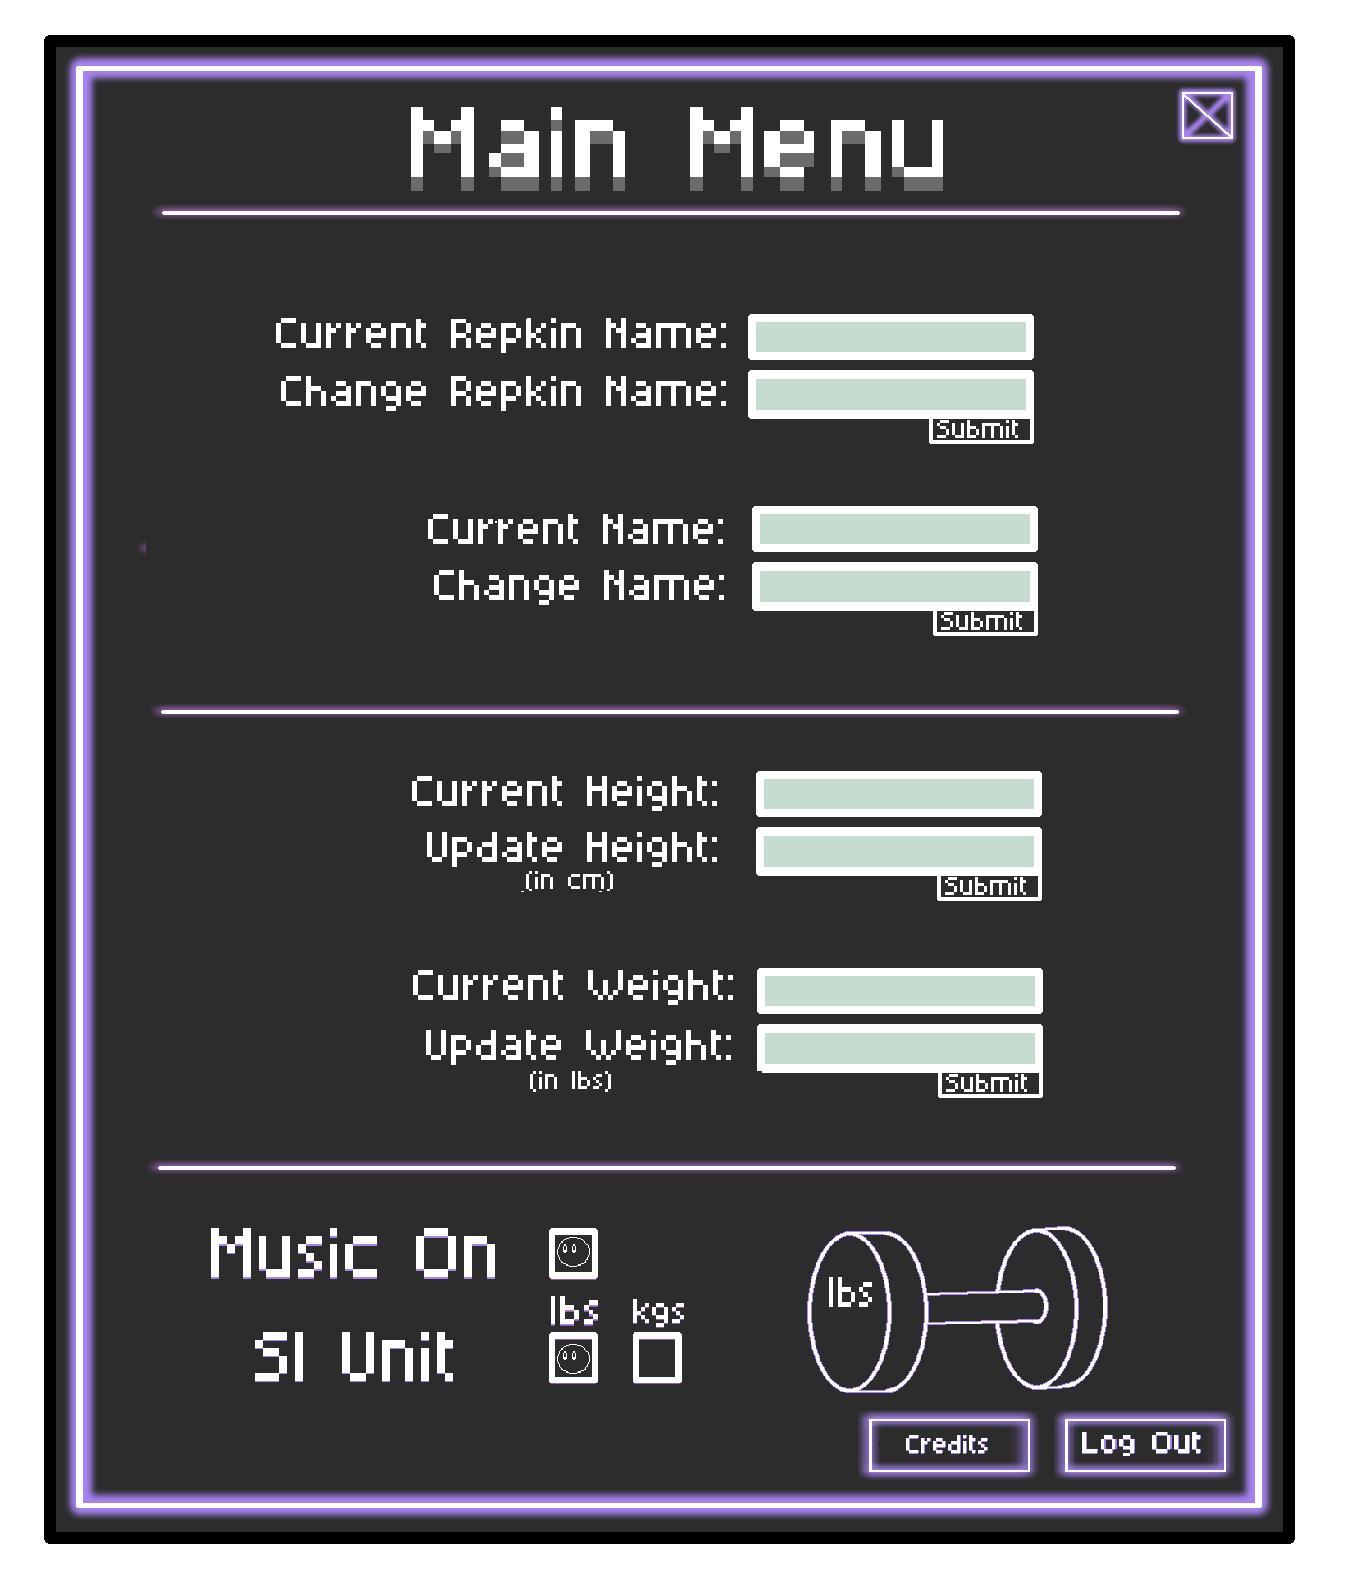
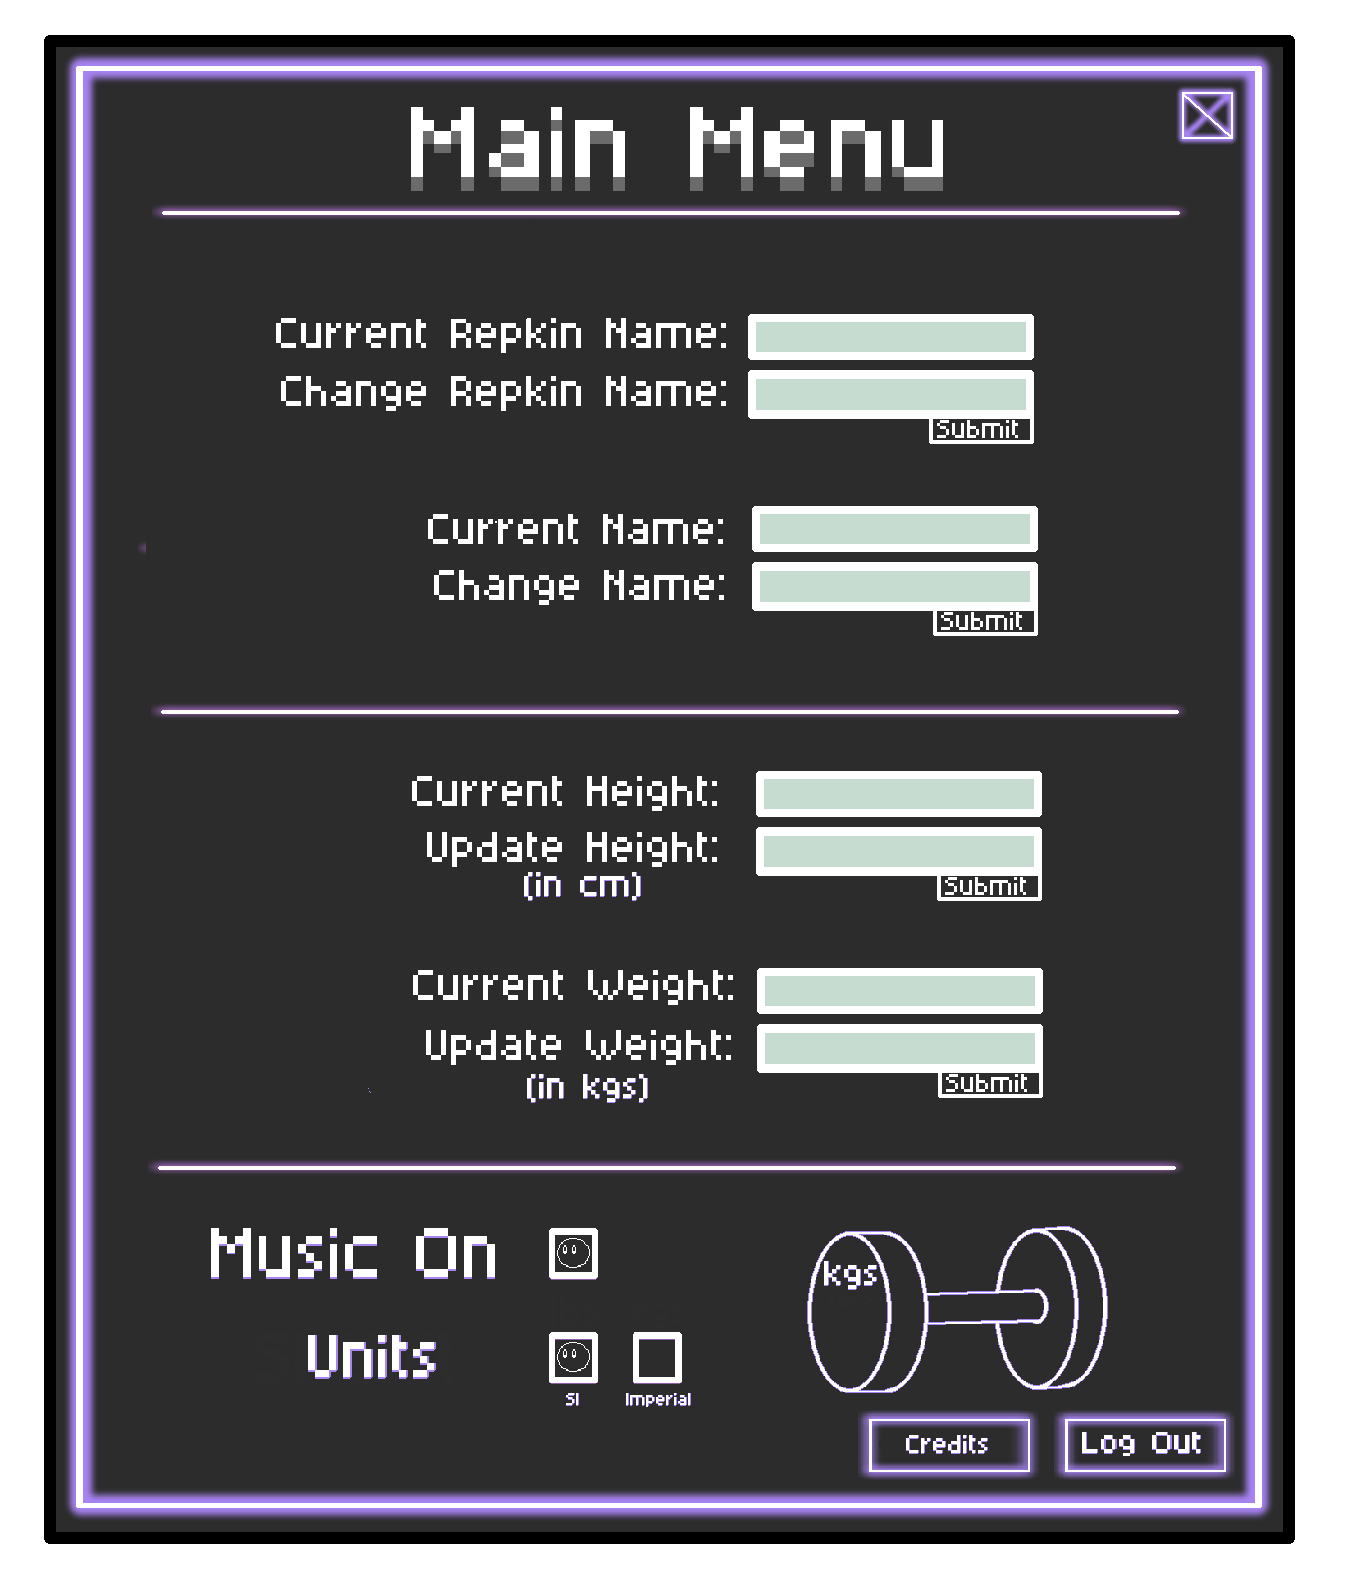
Repkin and Username features. New images for measurement options and reconfiguration.Fixed Repkin sizing in locker_room

diff --git a/project/core/templates/core/home.html b/project/core/templates/core/home.html
@@ -54,31 +54,34 @@
         <img id="menuArt"
             src="{% static 'img/main_menu_pngs/main_menu_starter.png' %}"
             alt="Main Menu" class="main_menu_png"
-            data-lbs-on="{% static 'img/main_menu_pngs/main_menu_starter.png' %}"
-            data-lbs-off="{% static 'img/main_menu_pngs/main_menu_lbs_off.png' %}"
-            data-kgs-on="{% static 'img/main_menu_pngs/main_menu_kgs_on.png' %}"
-            data-kgs-off="{% static 'img/main_menu_pngs/main_menu_kgs_off.png' %}">
+            data-si-on="{% static 'img/main_menu_pngs/main_menu_starter.png' %}"
+            data-si-off="{% static 'img/main_menu_pngs/main_menu_si_off.png' %}"
+            data-imp-on="{% static 'img/main_menu_pngs/main_menu_imp_on.png' %}"
+            data-imp-off="{% static 'img/main_menu_pngs/main_menu_imp_off.png' %}">
 
         <button type="button" id="menuExitButton" class="menu_field" aria-label="Close menu"
                 style="--l:85%; --t:5.2%; --w:5.2%; --h:4.6%"></button>
 
-        <!-- Name -->
-        <input class="menu_field" readonly value="{{ user.first_name }}" aria-label="Current Repkin name"
-            style="--l:55.5%; --t:19.7%; --w:20%; --h:2.7%">
-        <form class="menu_form">
-            <input class="menu_field" name="name" aria-label="Change Repkin name"
-                style="--l:55.5%; --t:23.3%; --w:20%; --h:2.7%">
+        <!-- Repkin Name -->
+        <input class="menu_field" id="cur-repkin-name" readonly value="{{ repkin.name }}"
+            aria-label="Current Repkin name" style="--l:55.5%; --t:19.7%; --w:20%; --h:2.7%">
+        <form class="menu_form" method="post" action="{% url 'core:update_repkin_name' %}"
+            data-display="cur-repkin-name" data-key="name">
+            {% csrf_token %}
+            <input class="menu_field" name="name" maxlength="30" autocomplete="off"
+                aria-label="Change Repkin name" style="--l:55.5%; --t:23.3%; --w:20%; --h:2.7%">
             <button type="submit" class="menu_field" aria-label="Submit Repkin name"
                     style="--l:68%; --t:26%; --w:8%; --h:1.8%"></button>
         </form>
 
         <!-- Username -->
-        <input class="menu_field" readonly value="{{ user.username }}" aria-label="Current  username"
+        <input class="menu_field" id="cur-user-name" readonly value="{{ user.first_name }}" aria-label="Current name"
             style="--l:55.5%; --t:32%; --w:20%; --h:2.7%">
-        <form class="menu_form">
-            <input class="menu_field" name="username" aria-label="Change username"
+        <form class="menu_form" method="post" action="{% url 'core:update_user_name' %}" data-display="cur-user-name" data-key="name">
+            {% csrf_token %}
+            <input class="menu_field" name="name" maxlenth="30" autocomplete= "off" aria-label="Change name"
                 style="--l:55.5%; --t:35.5%; --w:20%; --h:2.7%">
-            <button type="submit" class="menu_field" aria-label="Submit username"
+            <button type="submit" class="menu_field" aria-label="Submit name"
                     style="--l:68%; --t:38.5%; --w:8%; --h:1.8%"></button>
         </form>
 
@@ -124,9 +127,9 @@
         <!-- Music Control -->
         <button type="button" id="musicBtn" class="menu_field" aria-label="Music" aria-pressed="true"
             style="--l:40.8%; --t:77.7%; --w:3.8%; --h:3.2%"></button>
-        <button type="button" id="lbsBtn" class="menu_field" aria-label="Pounds" aria-pressed="true"
+        <button type="button" id="siBtn" class="menu_field" aria-label="Imperial" aria-pressed="true"
                 style="--l:40.8%; --t:84.2%; --w:3.8%; --h:3.3%"></button>
-        <button type="button" id="kgsBtn" class="menu_field" aria-label="Kilograms" aria-pressed="false"
+        <button type="button" id="impBtn" class="menu_field" aria-label="SI" aria-pressed="false"
                 style="--l:46.9%; --t:84.2%; --w:3.8%; --h:3.3%"></button>
     
 

diff --git a/project/static/js/main_menu.js b/project/static/js/main_menu.js
@@ -30,32 +30,31 @@
     document.getElementById("creditsButton").addEventListener("click", () => creditsOverlay.classList.remove("hidden"));
     creditsOverlay.addEventListener("click", (e) => { e.stopPropagation(); creditsOverlay.classList.add("hidden"); });
 
-    // settings forms aren't wired to the server yet
-    document.querySelectorAll(".menu_form").forEach((f) => f.addEventListener("submit", (e) => e.preventDefault()));
-
     // music and units, remembered across pages
     const art = document.getElementById("menuArt");
     const music = document.getElementById("bg-music");
     const musicBtn = document.getElementById("musicBtn");
-    const lbsBtn = document.getElementById("lbsBtn");
-    const kgsBtn = document.getElementById("kgsBtn");
+    const impBtn = document.getElementById("impBtn");
+    const siBtn = document.getElementById("siBtn");
     const load = (k, d) => { try { return localStorage.getItem(k) ?? d; } catch (e) { return d; } };
     const save = (k, v) => { try { localStorage.setItem(k, v); } catch (e) {} };
 
     let musicOn = load("repkinz.music", "on") === "on";
-    let unit = load("repkinz.unit", "lbs");
+    let unit = load("repkinz.unit", "imp");
+    if (unit === "lbs") unit = "imp";   // values saved by the old version
+    if (unit === "kgs") unit = "si";
 
     function render() {
         art.src = art.dataset[unit + (musicOn ? "On" : "Off")];
         musicBtn.setAttribute("aria-pressed", String(musicOn));
-        lbsBtn.setAttribute("aria-pressed", String(unit === "lbs"));
-        kgsBtn.setAttribute("aria-pressed", String(unit === "kgs"));
+        impBtn.setAttribute("aria-pressed", String(unit === "imp"));
+        siBtn.setAttribute("aria-pressed", String(unit === "si"));
         if (music) { musicOn ? music.play().catch(() => {}) : music.pause(); }
     }
 
     musicBtn.addEventListener("click", () => { musicOn = !musicOn; save("repkinz.music", musicOn ? "on" : "off"); render(); });
-    lbsBtn.addEventListener("click", () => { unit = "lbs"; save("repkinz.unit", unit); render(); });
-    kgsBtn.addEventListener("click", () => { unit = "kgs"; save("repkinz.unit", unit); render(); });
+    impBtn.addEventListener("click", () => { unit = "imp"; save("repkinz.unit", unit); render(); });
+    siBtn.addEventListener("click", () => { unit = "si"; save("repkinz.unit", unit); render(); });
 
     // browsers block autoplay with sound, so start on the first click if music is on
     document.addEventListener("pointerdown", () => {
@@ -63,4 +62,31 @@
     }, { once: true });
 
     render();
+
+    //Forms that save information through the server and update the display boxes
+    document.querySelectorAll(".menu_form[data-key]").forEach((form) => {
+    form.addEventListener("submit", async (e) => {
+        e.preventDefault();                       // stop the page reload
+        const box = document.getElementById(form.dataset.display);
+        const old = box.value;
+        try {
+            const res = await fetch(form.action, {
+                method: "POST",
+                body: new FormData(form),         // includes the csrf token
+                credentials: "same-origin",
+            });
+            const data = await res.json();
+            if (res.ok) {
+                box.value = data[form.dataset.key];   // show the saved value
+                form.reset();                         // clear the typing box
+            } else {
+                box.value = data.error || "Could not save.";
+                setTimeout(() => { box.value = old; }, 2000);
+            }
+        } catch (err) {
+            box.value = "Network error.";
+            setTimeout(() => { box.value = old; }, 2000);
+        }
+        });
+    });
 })();

diff --git a/project/static/css/locker_room.css b/project/static/css/locker_room.css
@@ -2,8 +2,8 @@
 .user-base-gif {
     position: absolute;
     left: 42%;
-    top: 84%;
-    width: 20%;
+    top: 80%;
+    width: 50%;
     transform: translate(-50%, -50%);
     image-rendering: pixelated;
 }

diff --git a/project/core/tests.py b/project/core/tests.py
@@ -3,6 +3,7 @@ from django.contrib.auth.models import User
 from django.urls import reverse
 from core.models_repkin import Repkin
 from .models import StarterItem
+from unittest.mock import patch
 
 PASSWORD = "pw12345!"
 
@@ -178,14 +179,6 @@ def test_menu_has_panel_and_fields(menu_html):
 
 
 @pytest.mark.django_db
-def test_menu_shows_current_username(menu_html, user):
-    assert f'value="{user.username}"' in menu_html
-    assert "readonly" in menu_html
-
-#Removed becausre password fields no longer in menu
-
-
-@pytest.mark.django_db
 def test_menu_logout_form_posts_to_logout(menu_html):
     assert f'action="{reverse("core:logout")}"' in menu_html
     assert "csrfmiddlewaretoken" in menu_html
@@ -194,7 +187,7 @@ def test_menu_logout_form_posts_to_logout(menu_html):
 @pytest.mark.django_db
 def test_hud_shows_signed_in_username(home_html, user):
     assert "Signed in as" in home_html
-    assert user.username in home_html
+    assert user.first_name in home_html
 
 
 @pytest.mark.django_db
@@ -211,9 +204,9 @@ def test_menu_has_credits_button_and_overlay(home_html):
 
 @pytest.mark.django_db
 def test_menu_art_has_all_four_states(home_html):
-    for attr in ("data-lbs-on", "data-lbs-off", "data-kgs-on", "data-kgs-off"):
+    for attr in ("data-imp-on", "data-imp-off", "data-si-on", "data-si-off"):
         assert attr in home_html
-    for el_id in ("musicBtn", "lbsBtn", "kgsBtn"):
+    for el_id in ("musicBtn", "impBtn", "siBtn"):
         assert f'id="{el_id}"' in home_html
 
 @pytest.mark.django_db
@@ -266,3 +259,78 @@ def test_the_dumbbell_opens_only_the_log_exercise_modal(home_html):
     assert home_html.count('id="log-exercise-btn"') == 1
     assert home_html.count('id="exercise-modal"') == 1
     assert "practice" not in home_html.lower()
+
+
+@pytest.mark.django_db
+def test_update_repkin_name_saves(logged_in_client, user):
+    r = logged_in_client.post(reverse("core:update_repkin_name"), {"name": "Chase"})
+    assert r.status_code == 200
+    assert r.json() == {"name": "Chase"}
+    assert user.repkin.name == "Chase"
+
+
+@pytest.mark.django_db
+@pytest.mark.parametrize("bad", ["", "   ", "x" * 31])
+def test_update_repkin_name_rejects_bad_input(logged_in_client, bad):
+    r = logged_in_client.post(reverse("core:update_repkin_name"), {"name": bad})
+    assert r.status_code == 400
+
+
+@pytest.mark.django_db
+def test_update_repkin_name_requires_login(client):
+    r = client.post(reverse("core:update_repkin_name"), {"name": "Chase"})
+    assert r.status_code == 302
+
+
+@pytest.mark.django_db
+def test_update_repkin_name_rejects_get(logged_in_client):
+    assert logged_in_client.get(reverse("core:update_repkin_name")).status_code == 405
+    
+@pytest.mark.django_db
+def test_updated_name(logged_in_client, user):
+    r = logged_in_client.post(reverse("core:update_user_name"), {"name": "Bradley"})
+    assert r.status_code == 200
+    assert r.json() == {"name": "Bradley"}
+    user.refresh_from_db()
+    assert user.first_name == "Bradley"
+    
+@pytest.mark.django_db
+def test_menu_shows_saved_repkin_name(logged_in_client):
+    logged_in_client.post(reverse("core:update_repkin_name"), {"name": "Chase"})
+    html = logged_in_client.get(reverse("core:home")).content.decode()
+    assert 'id="cur-repkin-name"' in html
+    assert 'value="Chase"' in html
+    
+
+@pytest.mark.django_db
+def test_repkin_name_form_posts_to_the_route(home_html):
+    assert f'action="{reverse("core:update_repkin_name")}"' in home_html
+    assert 'data-display="cur-repkin-name"' in home_html
+    
+@pytest.mark.django_db
+def test_menu_shows_saved_name(logged_in_client):
+    logged_in_client.post(reverse("core:update_user_name"), {"name": "Bradley"})
+    html = logged_in_client.get(reverse("core:home")).content.decode()
+    assert 'id="cur-user-name"' in html
+    assert 'value="Bradley"' in html
+    
+
+@pytest.mark.django_db
+def test_user_name_form_posts_to_the_route(home_html):
+    assert f'action="{reverse("core:update_user_name")}"' in home_html
+    assert 'data-display="cur-user-name"' in home_html
+
+@pytest.mark.django_db
+def test_update_user_name_saves(logged_in_client, user):
+    r = logged_in_client.post(reverse("core:update_user_name"), {"name": "Sam"})
+    assert r.json() == {"name": "Sam"}
+    user.refresh_from_db()
+    assert user.first_name == "Sam"
+
+@pytest.mark.django_db
+def test_menu_shows_first_name_not_firebase_id(logged_in_client, user):
+    user.first_name = "Sam"
+    user.save()
+    html = logged_in_client.get(reverse("core:home")).content.decode()
+    assert 'id="cur-user-name"' in html
+    assert 'value="Sam"' in html

diff --git a/project/core/views.py b/project/core/views.py
@@ -193,3 +193,74 @@ def locker_room(request):
         "next_arms": next_arm_level(arm_level),
     }
     return render(request, "core/locker_room.html", context)
+
+#Information to be pulled and displayed in the main menu on both pages#
+@login_required
+def _clean_name(request):
+    name = request.POST.get("name", "").strip()
+    return name if 1 <= len(name) <= 30 else None
+
+@login_required
+@require_POST
+def update_repkin_name(request):
+    name = _clean_name(request)
+    if name is None:
+        return JsonResponse({"error": "Enter 1-30 characters."}, status=400)
+    repkin = get_repkin(request.user)
+    repkin.name = name
+    repkin.save(update_fields=["name"])    
+    return JsonResponse({"name": name})
+
+
+def _firebase_uid(request):
+    username = request.user.get_username()
+    prefix = "firebase_"
+    if username.startswith(prefix) and username.removeprefix(prefix):
+        return username.removeprefix(prefix)
+    return None
+
+
+PROFILE_LIMITS = {"height_cm": (50, 250), "weight_kg": (10, 650)}
+
+
+@login_required
+@require_POST
+def update_user_name(request):
+    name = _clean_name(request)
+    if name is None:
+        return JsonResponse({"error": "Enter 1-30 characters."}, status=400)
+    request.user.first_name = name
+    request.user.save(update_fields=["first_name"])
+    return JsonResponse({"name": name})
+
+@login_required
+@require_http_methods(["GET", "POST"])
+def profile_data(request):
+    uid = _firebase_uid(request)
+    if uid is None:
+        return JsonResponse({"error": "A Firebase account is required."}, status=403)
+    update = {}
+    if request.method == "POST":
+        for field, (low, high) in PROFILE_LIMITS.items():
+            raw = request.POST.get(field)
+            if raw is None:
+                continue
+            try:
+                value = float(raw)
+            except ValueError:
+                return JsonResponse({"error": "Enter a number."}, status=400)
+            if not low <= value <= high:
+                return JsonResponse({"error": f"Enter {low}-{high}."}, status=400)
+            update[field] = round(value, 1)
+        if not update:
+            return JsonResponse({"error": "Nothing to save."}, status=400)
+    try:
+        ref = get_firestore_client().collection("users").document(uid)
+        if request.method == "POST":
+            ref.set(update, merge=True)
+            return JsonResponse(update)
+        data = ref.get().to_dict() or {}
+        return JsonResponse({k: data.get(k) for k in PROFILE_LIMITS})
+    except Exception:
+        logger.exception("Profile storage failed for Firebase UID %s", uid)
+        return JsonResponse({"error": "Profile storage is unavailable."}, status=503)

diff --git a/project/core/urls.py b/project/core/urls.py
@@ -19,4 +19,7 @@ urlpatterns = [
     path("exercises/submit/", submit_exercise, name="submit_exercise"),
     path("repkin/message/", repkin_message, name="repkin_message"),
     path("locker-room/", views.locker_room, name="locker_room"),
+    path("profile/", views.profile_data, name="profile_data"),
+    path("user/name/", views.update_user_name, name="update_user_name"),
+    path("repkin/name/", views.update_repkin_name, name="update_repkin_name"),
 ]
